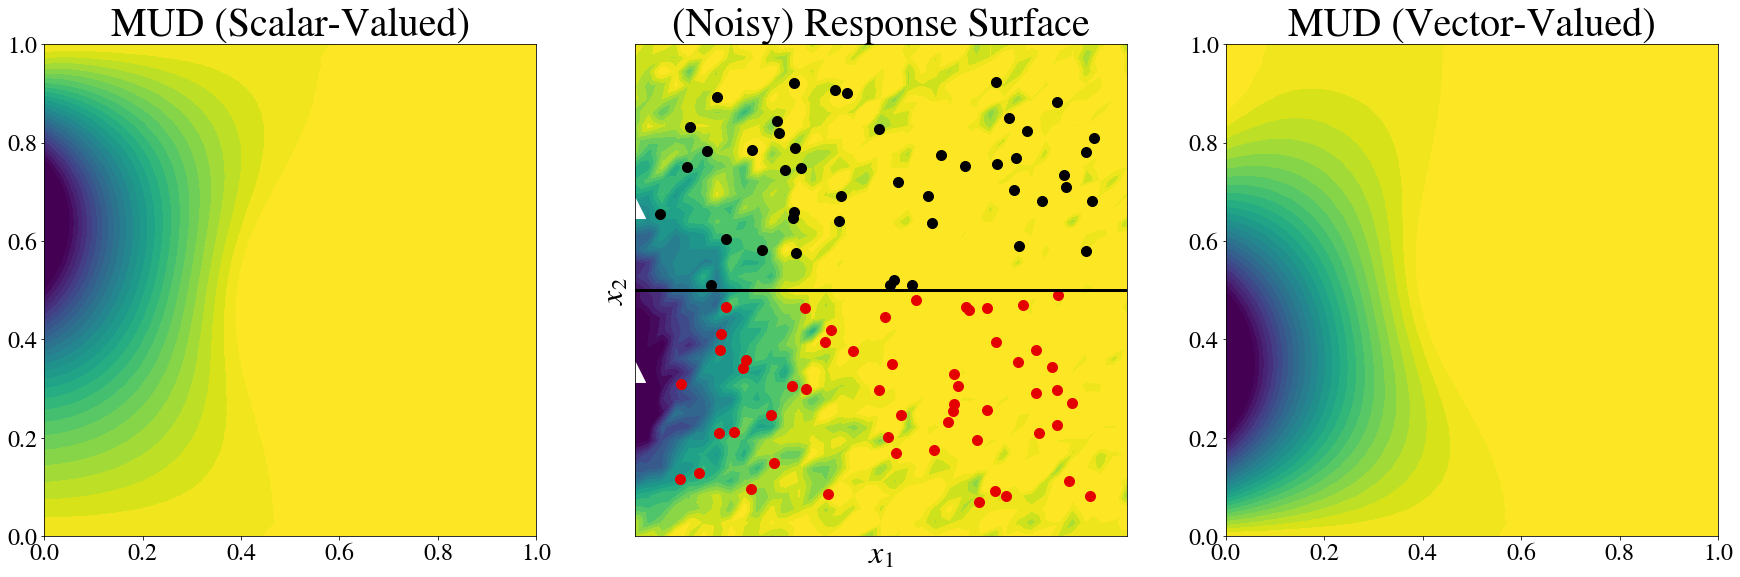
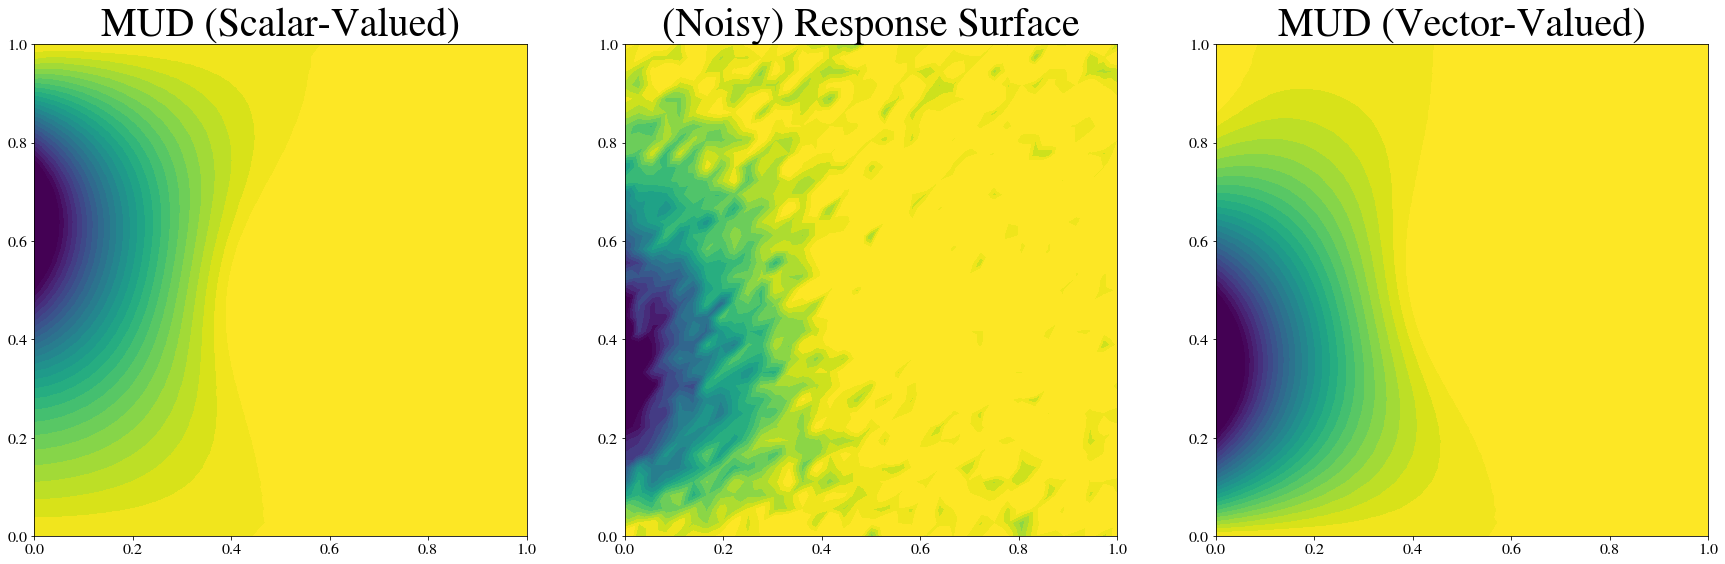
fix accidental fig overwrite, replace proper figure for bad vector map

diff --git a/extensions/mud_pde_geometry.tex b/extensions/mud_pde_geometry.tex
@@ -39,9 +39,8 @@ The most notable difference between the scatterplots is the difference in diamet
 The two component maps of $\qoi_\text{2D}$ contain almost the same information, so we can expect there to be little difference between MUD points arising from using $\qoi_\text{2D}^\prime$ when compared to using the scalar--valued map.
 We compare these two solutions for an instance of the SIP in Figure~\ref{fig:pde-highd-2d-scalar-vs-alt}.
 
-[TK - fix figure]
 \begin{figure}
-  \includegraphics[width=0.95\linewidth]{figures/pde-highd/pde-highd_geom_D2.png}
+  \includegraphics[width=0.95\linewidth]{figures/pde-highd/pde-highd_comp_exmud_D2_m100.png}
 \caption{
 Side-by-side comparison of an example solution to the SIP using $\qoi_\text{1D}$ (left) compared to using $\qoi_\text{2D}^\prime$, juxtaposed against a plot of $g$.
 }
